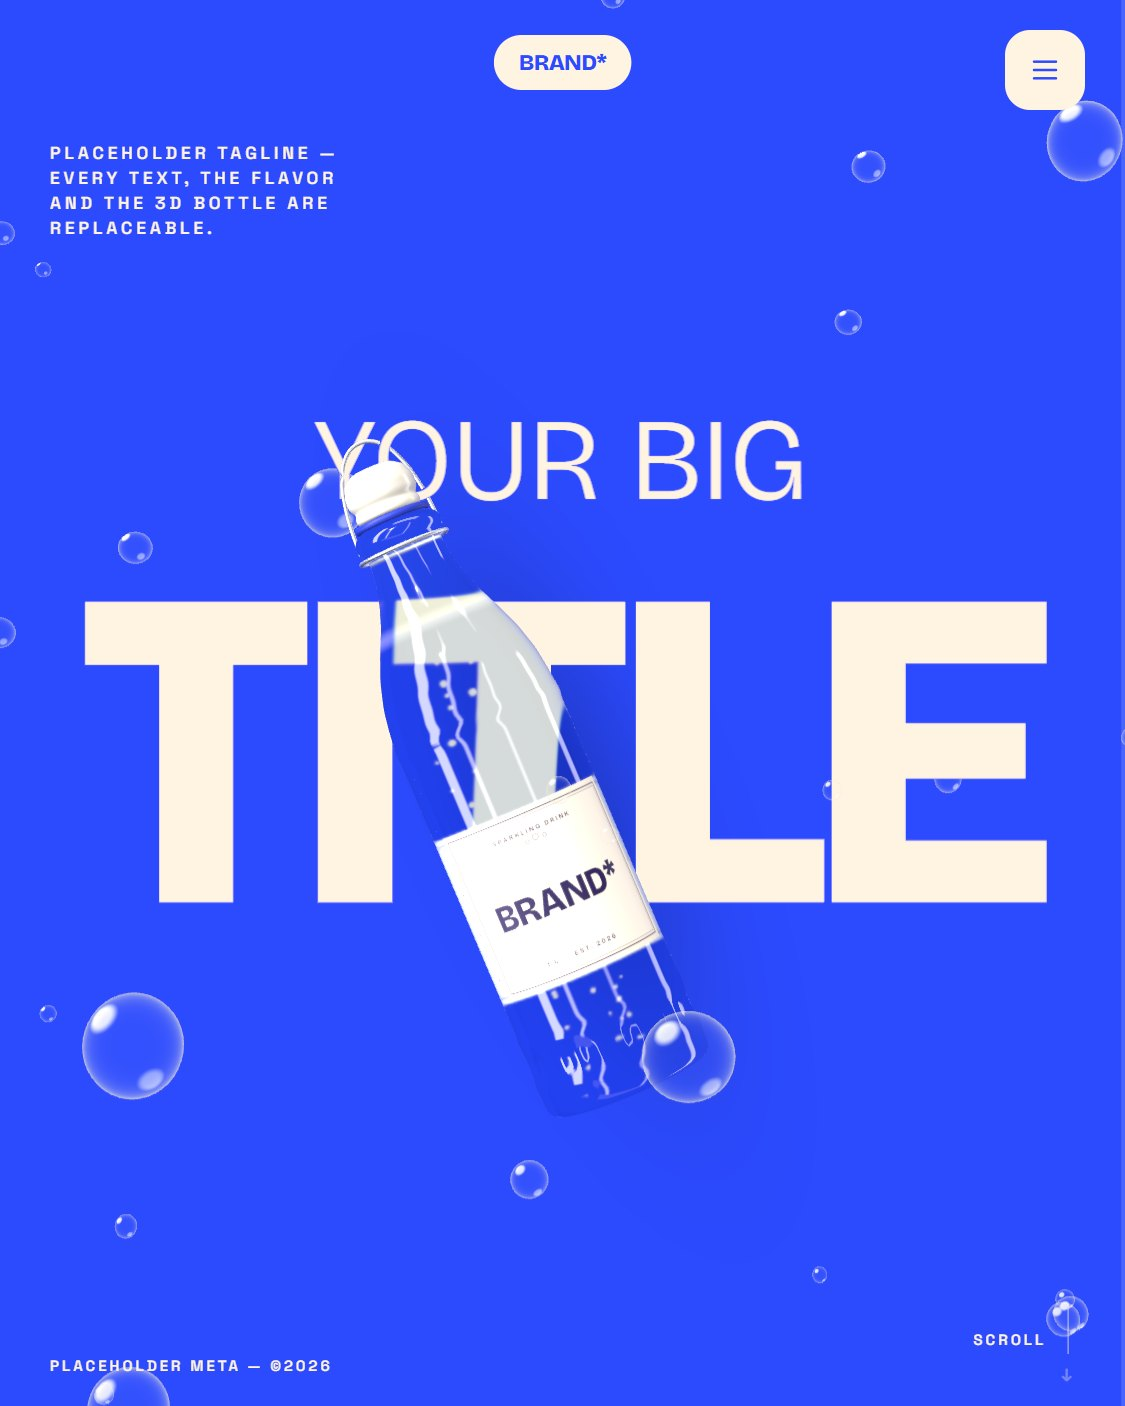
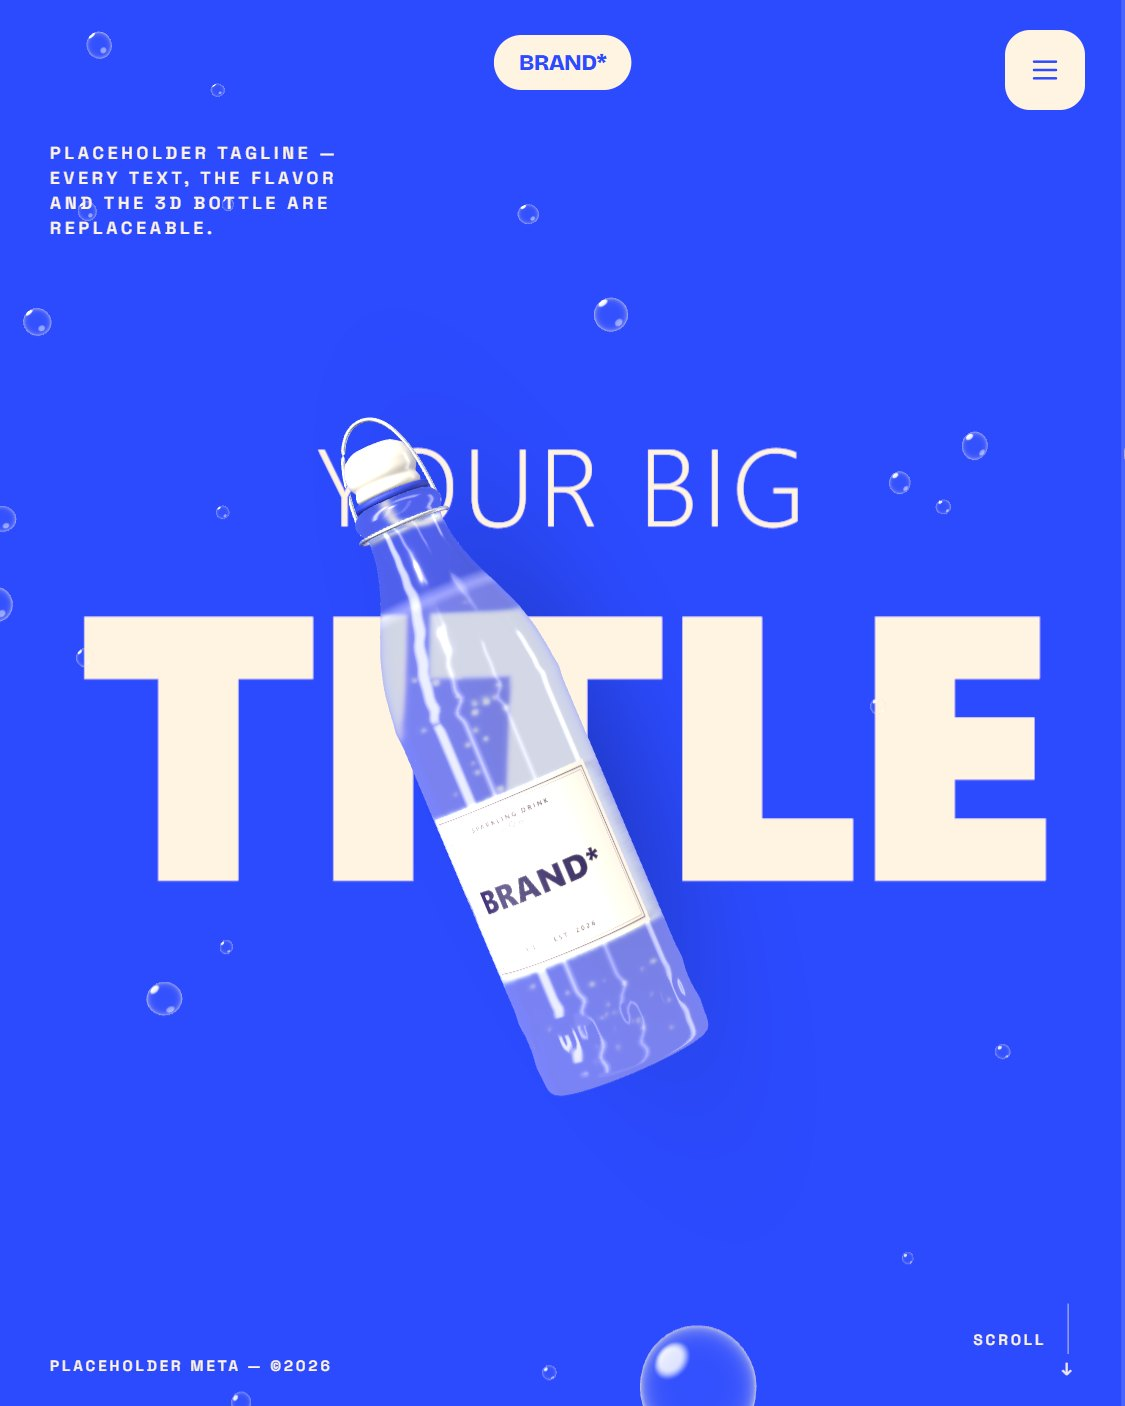
Fizz: capa lechosa leve en el vidrio de la botella
Vidrio apenas esmerilado y un velo del color del escenario, más fuerte donde
está el líquido: desenfoca el titular que queda detrás y da contraste.
Imagen del catálogo regenerada.

diff --git a/src/components/sections/fizz/HeroBubbles.jsx b/src/components/sections/fizz/HeroBubbles.jsx
@@ -560,11 +560,14 @@ export default function HeroBubbles({
         uFizzFill: { value: 1e6 },
         uFizzEdge: { value: 0.001 },
         uFizzTint: { value: new THREE.Color(flavorCfg.liquid) },
+        // La capa lechosa: el color del escenario aclarado.
+        uFizzVeil: { value: new THREE.Color(flavorCfg.bg).lerp(new THREE.Color(0xffffff), 0.6) },
       }
       const glassMat = new THREE.MeshPhysicalMaterial({
         color: 0xf4fffa,
         transmission: 1,
-        roughness: 0.02,
+        // Un poco áspero: desenfoca apenas lo que hay detrás, como un vidrio esmerilado.
+        roughness: 0.14,
         ior: 1.5,
         thickness: 0.016,
         dispersion: narrow ? 0 : 2.5,
@@ -582,14 +585,15 @@ export default function HeroBubbles({
         shader.fragmentShader = shader.fragmentShader
           .replace(
             '#include <common>',
-            '#include <common>\nvarying float vFizzY;\nuniform float uFizzFill;\nuniform float uFizzEdge;\nuniform vec3 uFizzTint;',
+            '#include <common>\nvarying float vFizzY;\nuniform float uFizzFill;\nuniform float uFizzEdge;\nuniform vec3 uFizzTint;\nuniform vec3 uFizzVeil;',
           )
           .replace(
             '#include <transmission_fragment>',
             `#include <transmission_fragment>
             float fizzLiquid = 1.0 - smoothstep(uFizzFill - uFizzEdge, uFizzFill + uFizzEdge, vFizzY);
             float fizzLine = 1.0 - smoothstep(0.0, uFizzEdge * 4.0, abs(vFizzY - uFizzFill));
-            totalDiffuse = mix(totalDiffuse, totalDiffuse * mix(vec3(1.0), uFizzTint, 0.35), fizzLiquid) + fizzLine * 0.22;`,
+            totalDiffuse = mix(totalDiffuse, totalDiffuse * mix(vec3(1.0), uFizzTint, 0.35), fizzLiquid) + fizzLine * 0.22;
+            totalDiffuse = mix(totalDiffuse, uFizzVeil, 0.1 + fizzLiquid * 0.2);`,
           )
       }
       const capMat = new THREE.MeshStandardMaterial({
